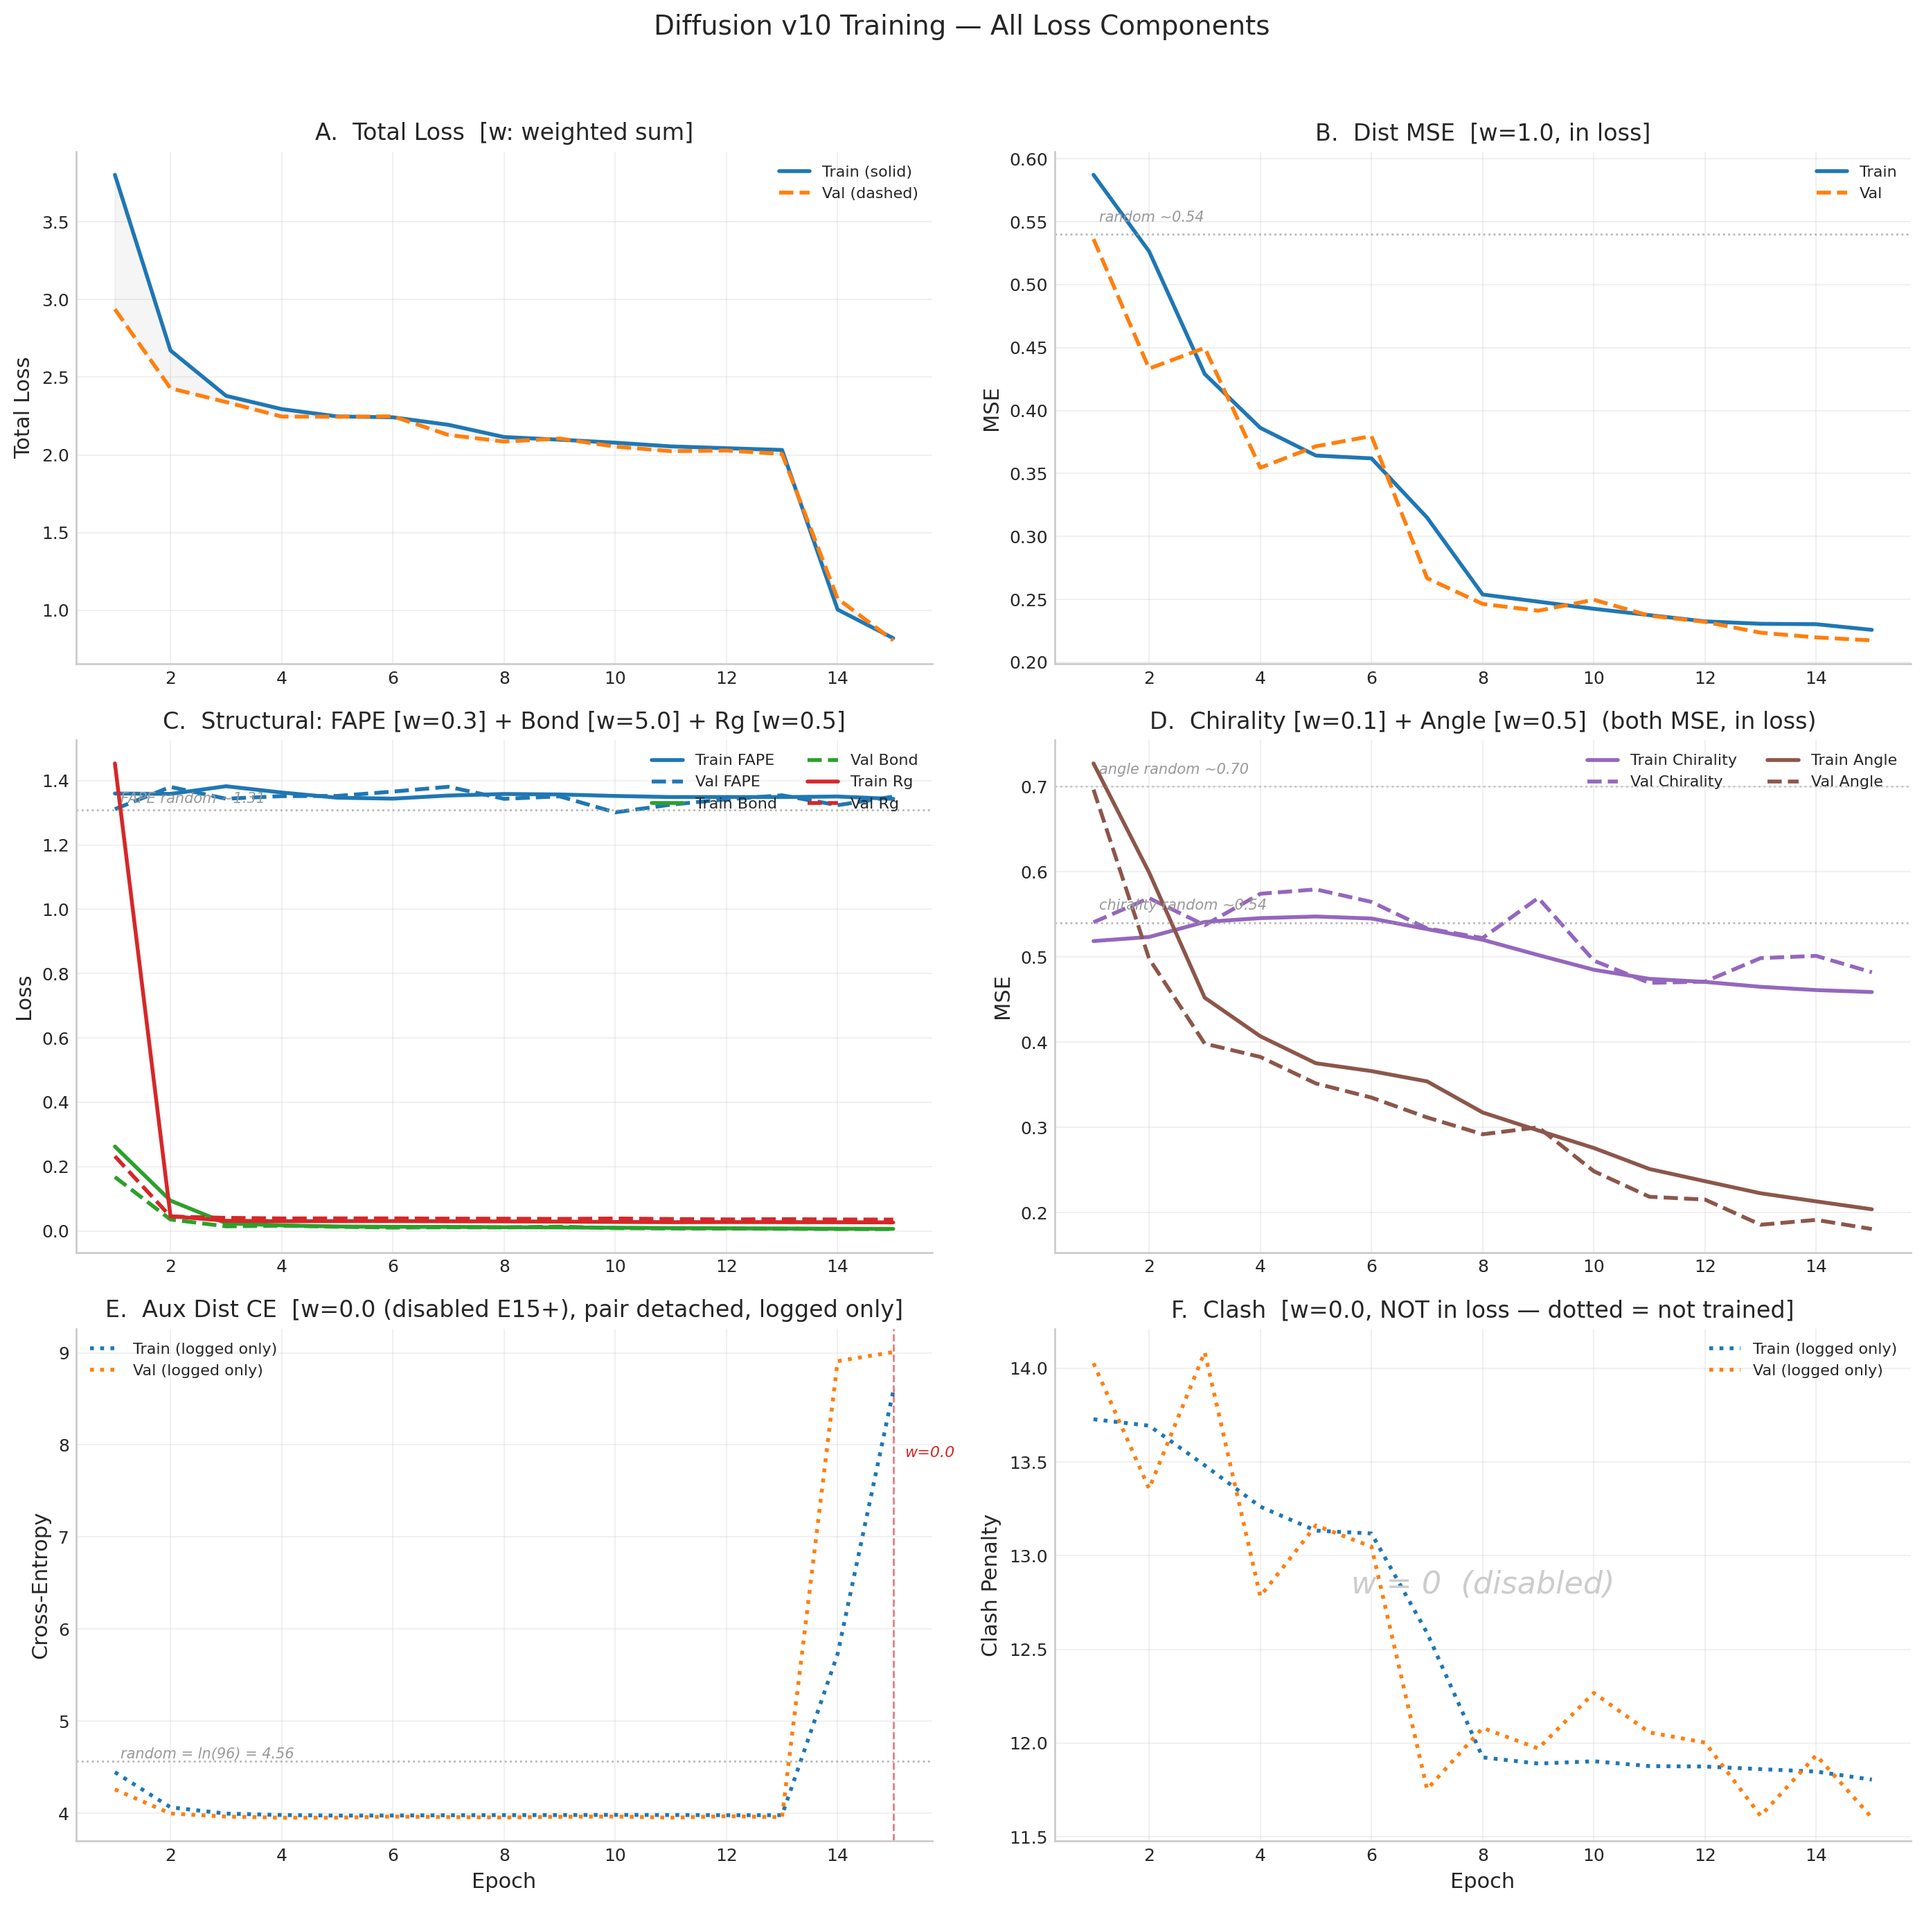
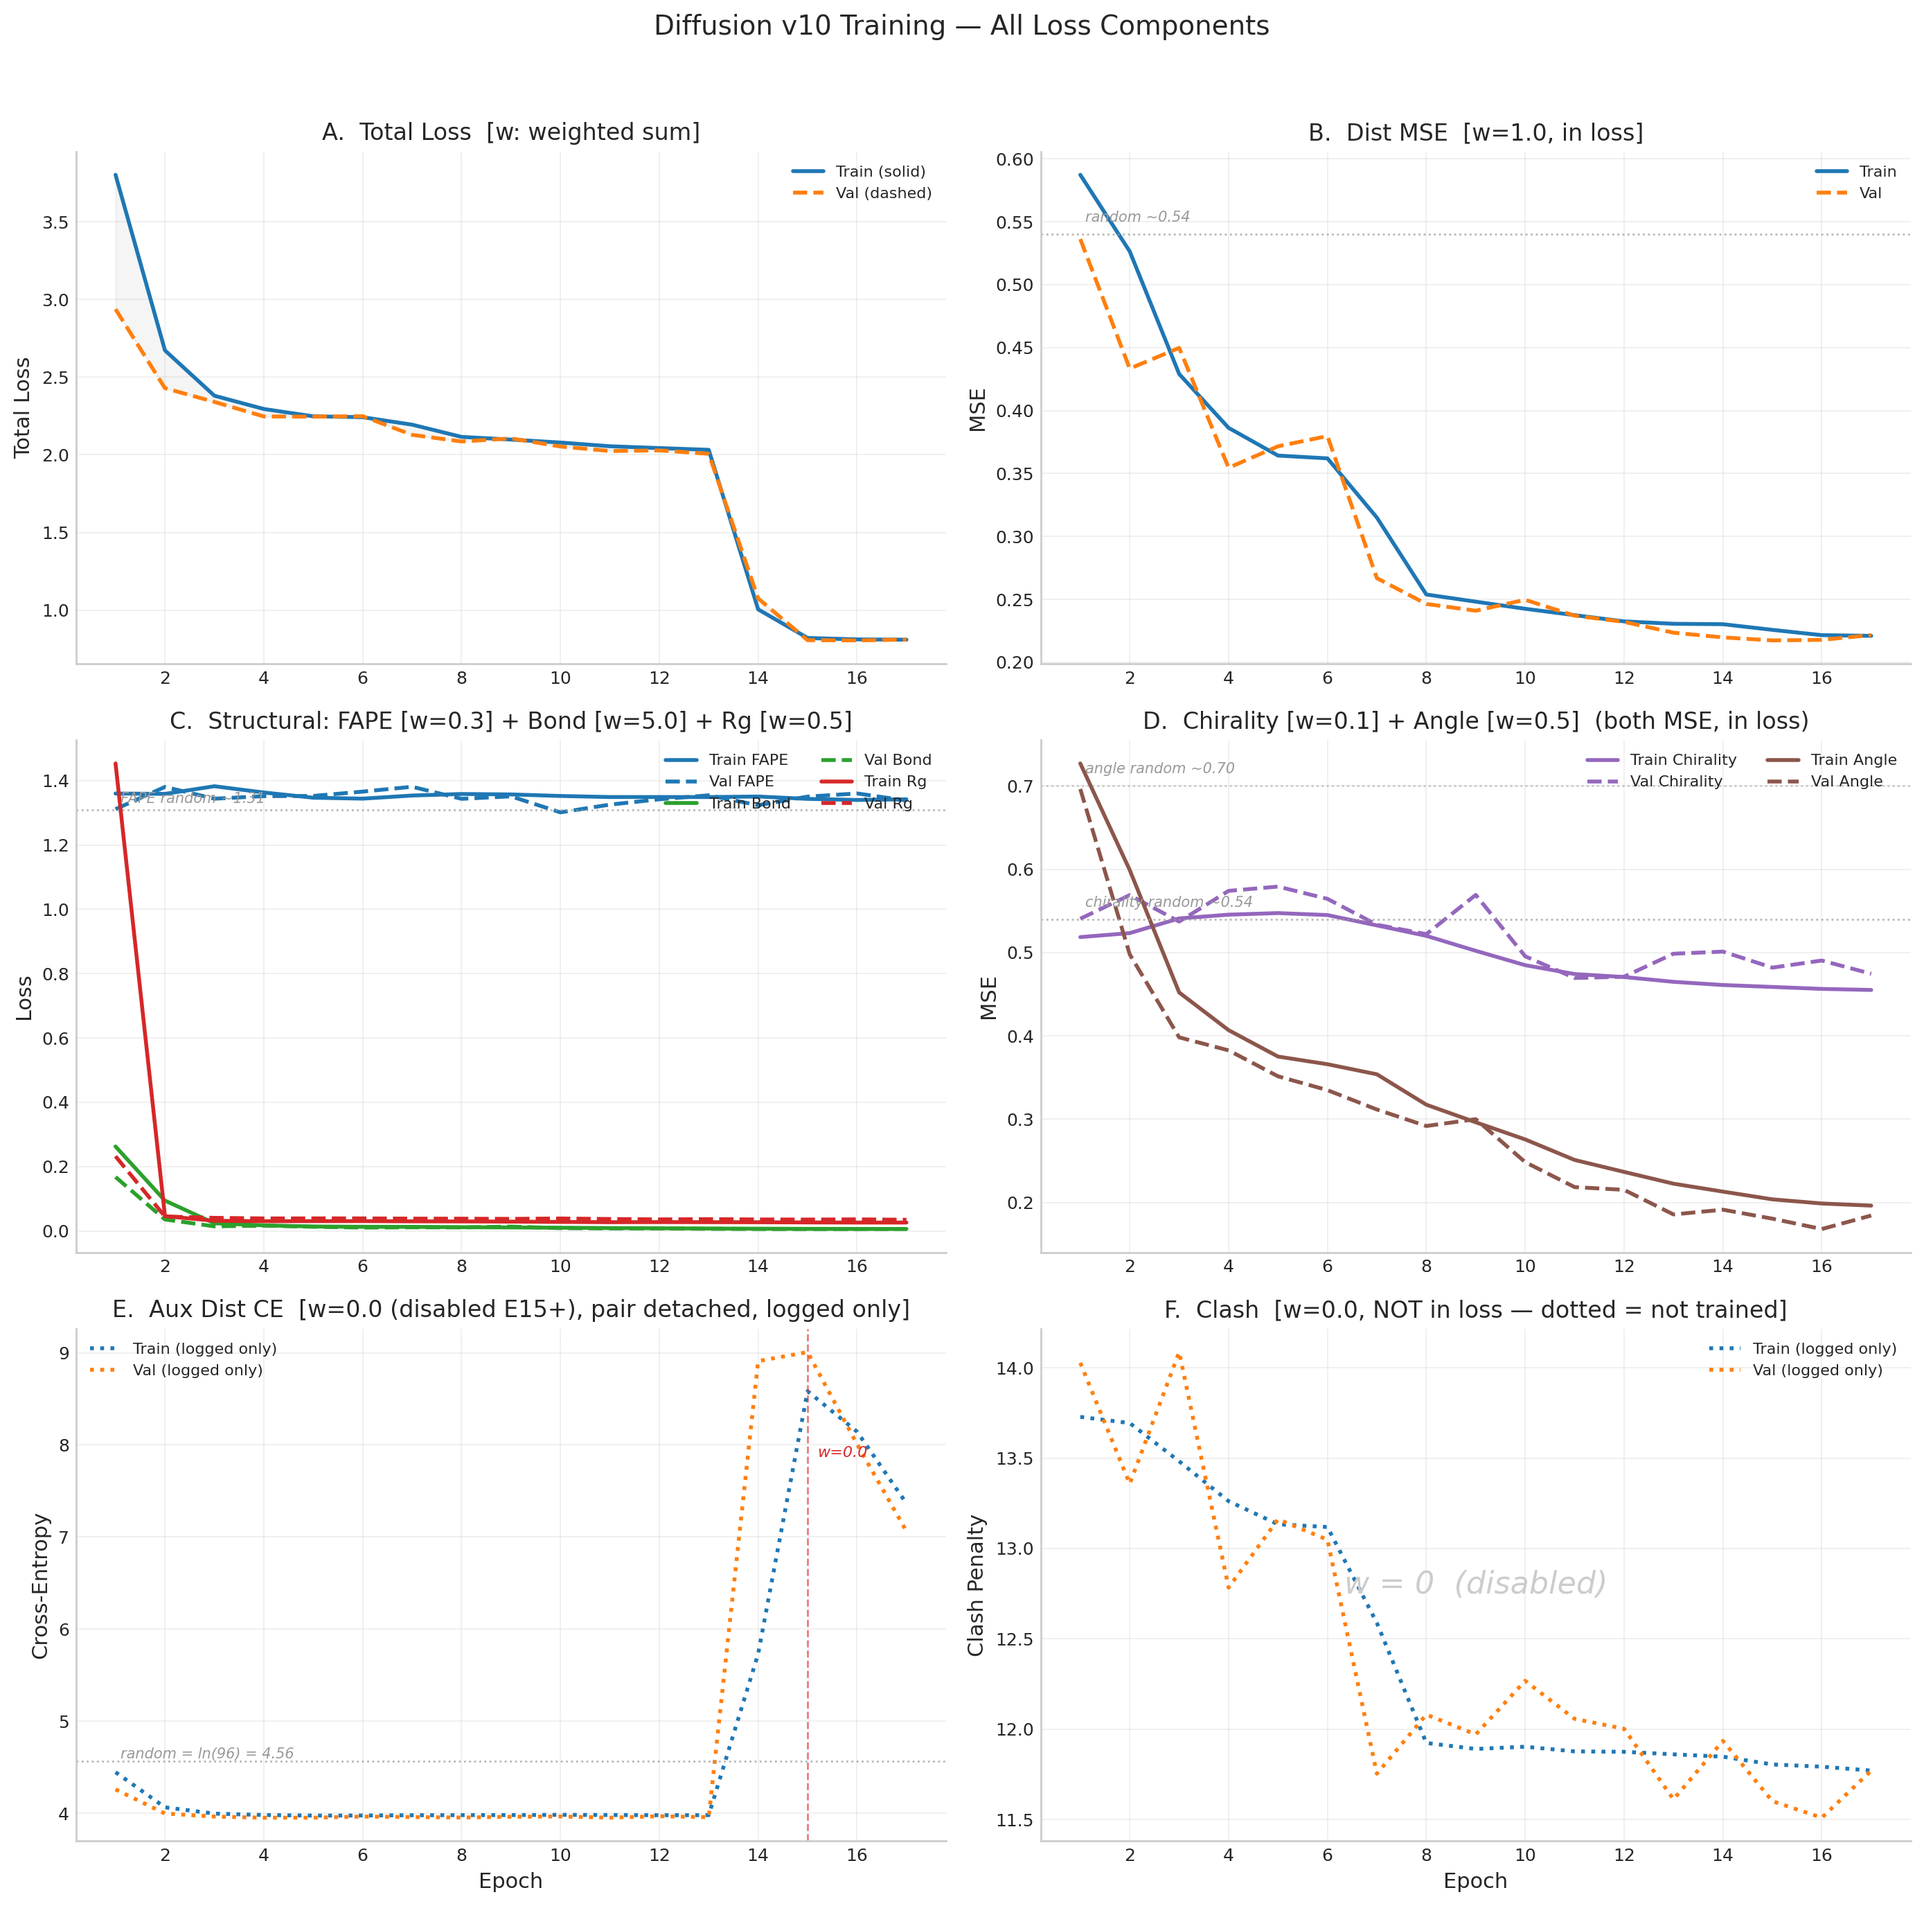
auto-update v10 training progress

diff --git a/index.html b/index.html
@@ -1451,16 +1451,16 @@
                 <td>&mdash;</td>
                 <td><span class="tag tag-best">NEW BEST</span></td>
               </tr>
-              <tr style="border-top: 2px solid var(--border);">
+              <tr>
                 <td>14</td>
-                <td>0.808</td>
+                <td>1.075</td>
                 <td>0.220</td>
                 <td>1.324</td>
                 <td>0.035</td>
                 <td>0.006</td>
                 <td>&mdash;</td>
                 <td>&mdash;</td>
-                <td><span class="tag tag-best">NEW BEST</span> <span style="font-size:0.75em; color:var(--text-secondary);">w_aux&rarr;0.0</span></td>
+                <td><span class="tag tag-best">NEW BEST</span></td>
               </tr>
               <tr>
                 <td>15</td>
@@ -1472,6 +1472,28 @@
                 <td>14.53&Aring;</td>
                 <td>0.129</td>
                 <td><span class="tag tag-best">NEW BEST</span></td>
+              </tr>
+              <tr>
+                <td>16</td>
+                <td>0.805</td>
+                <td>0.218</td>
+                <td>1.360</td>
+                <td>0.036</td>
+                <td>0.006</td>
+                <td>&mdash;</td>
+                <td>&mdash;</td>
+                <td><span class="tag tag-best">NEW BEST</span></td>
+              </tr>
+              <tr>
+                <td>17</td>
+                <td>0.810</td>
+                <td>0.222</td>
+                <td>1.338</td>
+                <td>0.034</td>
+                <td>0.006</td>
+                <td>&mdash;</td>
+                <td>&mdash;</td>
+                <td><span class="tag tag-pat">pat 1</span></td>
               </tr>
               </tbody>
           </table>
@@ -1590,16 +1612,16 @@
           </div>
         </div>
 
-        <h4 class="training-progress-heading">Loss Curves (through Epoch 15)</h4>
+        <h4 class="training-progress-heading">Loss Curves (through Epoch 17)</h4>
         <div style="text-align: center; margin: 16px 0;">
           <img src="data/training/v10_loss_curves.png" alt="V10 diffusion training loss curves" style="max-width: 100%; border-radius: 6px; border: 1px solid var(--border);">
         </div>
 
         <div class="training-pending-note" id="v9-run2-status">
-          v10: 15 epochs completed. Best val structural loss: 0.807 at epoch 15. Patience: 0/15. Best DDIM TM-score: 0.131 (E12). aux_dist_ce disabled (w=0.0) at E15 after exponential divergence due to pair representation drift; patience now tracks structural-only loss. Running on single A40 GPU (savio3) with auto-resume.
+          v10: 17 epochs completed. Best val loss: 0.805 at epoch 16. Patience: 1/15. Best DDIM TM-score: 0.131 (E12). Running on single A40 GPU (savio3) with auto-resume.
         </div>
         <div style="color: var(--text-secondary); font-size: 0.85em; margin-top: 8px;" id="v9-last-updated">
-          Last updated: 2026-03-09 06:30 UTC
+          Last updated: 2026-03-09 06:02 UTC
         </div>
       </div>
 
